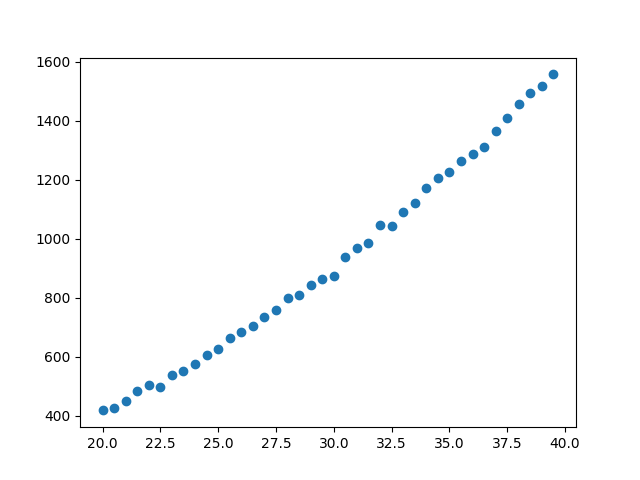
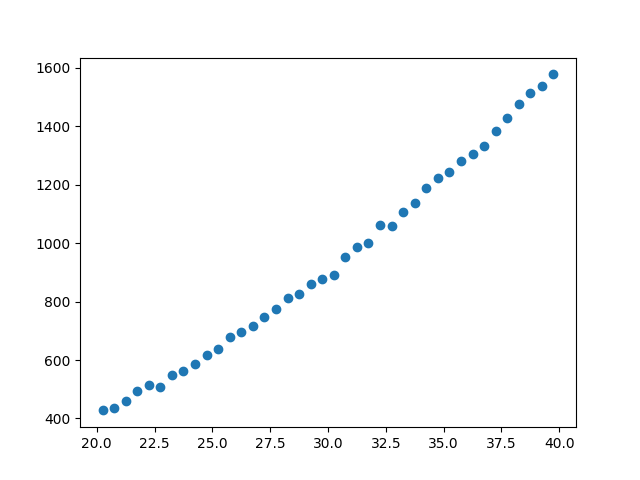
RTD: use 0.25/0.75 rather than 0.0/0.5 axis values
For @hamogu

diff --git a/docs/_examples/data/index.py b/docs/_examples/data/index.py
@@ -25,10 +25,12 @@ def savefig(name):
 
 
 np.random.seed(0)
-x = np.arange(20, 40, 0.5)
+x = np.arange(20.25, 40, 0.5)
 y = x**2 + np.random.normal(0, 10, size=x.size)
 d1 = data.Data1D('test', x, y)
 report("d1")
+report("d1.x")
+report("d1.y")
 
 plt.plot(d1.x, d1.y, 'o')
 savefig("data1d.png")
@@ -58,14 +60,14 @@ res1 = fit.fit()
 d1.notice()
 res2 = fit.fit()
 
-report('"Degrees of freedom: {} vs {}".format(res1.dof, res2.dof)')
+report('f"Degrees of freedom: {res1.dof} vs {res2.dof}"')
 
 d1.notice()
-report("d1.get_filter(format='%.1f')")
+report("d1.get_filter(format='%.2f')")
 d1.notice(25, 27)
-report("d1.get_filter(format='%.1f')")
+report("d1.get_filter(format='%.2f')")
 d1.notice(30, 35)
-report("d1.get_filter(format='%.1f')")
+report("d1.get_filter(format='%.2f')")
 
 d1.notice()
 report('d1.get_x()')

diff --git a/docs/data/index.rst b/docs/data/index.rst
@@ -66,7 +66,7 @@ Examples of unbinned data classes are
 :py:class:`~sherpa.data.Data1D` and :py:class:`~sherpa.data.Data2D`.
 
     >>> np.random.seed(0)
-    >>> x = np.arange(20, 40, 0.5)
+    >>> x = np.arange(20.25, 40, 0.5)
     >>> y = x**2 + np.random.normal(0, 10, size=x.size)
     >>> d1 = data.Data1D('test', x, y)
     >>> print(d1)
@@ -75,6 +75,20 @@ Examples of unbinned data classes are
     y         = Float64[40]
     staterror = None
     syserror  = None
+    >>> print(d1.x)
+    [20.25 20.75 21.25 21.75 22.25 22.75 23.25 23.75 24.25 24.75 25.25 25.75
+     26.25 26.75 27.25 27.75 28.25 28.75 29.25 29.75 30.25 30.75 31.25 31.75
+     32.25 32.75 33.25 33.75 34.25 34.75 35.25 35.75 36.25 36.75 37.25 37.75
+     38.25 38.75 39.25 39.75]
+    >>> print(d1.y)
+    [ 427.70302346  434.56407208  461.34987984  495.47143199  513.7380799
+      507.7897212   550.06338418  562.54892792  587.03031148  616.66848502
+      639.00293571  677.60523507  696.67287725  716.77925016  747.00113233
+      773.39924327  813.00329073  824.51091736  858.69317702  876.52154261
+      889.53260184  952.09868595  985.20686199 1000.6408498  1062.76004624
+     1058.01884325 1106.02008517 1137.1906615  1188.39029214 1222.2560877
+     1244.11197426 1281.8441252  1305.18464252 1330.75453532 1384.08337851
+     1426.62598969 1475.36540681 1513.58629849 1536.68923183 1577.03947249]
     >>> plt.plot(d.x, d.y, 'o')
 
 .. image:: ../_static/data/data1d.png
@@ -148,7 +162,7 @@ hides those values where the independent axis values are between
 
     >>> d1.ignore(21.2, 22.8)
     >>> d1.x[np.invert(d1.mask)]
-    array([21.5, 22. , 22.5])
+    array([21.25, 21.75, 22.25, 22.75])
 
 .. note::
    The meaning of the range selected by the `notice` and `ignore` calls
@@ -160,10 +174,10 @@ hides those values where the independent axis values are between
 
 The :py:meth:`~sherpa.data.Data1D.get_filter` method will report a
 string representation of the existing filter, so here showing that
-the bins between 21 and 23 have been ignored::
+the bins between 21.2 and 22.8 have been ignored::
 
     >>> print(d1.get_fiter())
-    20.0000:21.0000,23.0000:39.5000
+    20.2500:20.7500,23.2500:39.7500
 
 .. note::
    The filter does not record the requested changes - that is here
@@ -187,8 +201,8 @@ no arguments were given)::
     >>> d1.notice()
     >>> res2 = fit.fit()
 
-    >>> print("Degrees of freedom: {} vs {}".format(res1.dof, res2.dof))
-    Degrees of freedom: 35 vs 38
+    >>> print(f"Degrees of freedom: {res1.dof} vs {res2.dof}")
+    Degrees of freedom: 34 vs 38
 
 .. _filter_reset:
 
@@ -213,22 +227,22 @@ calls will add the new data. So with no filter we see the whole data
 range::
 
     >>> d1.notice()
-    >>> print(d1.get_fiter(format='%.1f'))
-    20.0:39.5
+    >>> print(d1.get_fiter(format='%.2f'))
+    20.25:39.75
 
 The first :py:meth:`~sherpa.data.Data.notice` call restricts to just
 this range::
 
     >>> d1.notice(25, 27)
     >>> print(d1.get_fiter(format='%.1f'))
-    25.0:27.0
+    25.25:26.75
 
 Subsequent :py:meth:`~sherpa.data.Data.notice` calls add to the selected
 range::
 
     >>> d1.notice(30, 35)
     >>> print(d1.get_fiter(format='%.1f'))
-    25.0:27.0,30.0:35.0
+    25.25:26.75,30.25:34.75
 
 The edges of a filter
 ---------------------
@@ -260,22 +274,23 @@ will be applied::
   >>> d1.notice()
   >>> d1.notice(21.1, 23.5)
   >>> d1.get_x()
-  [20.  20.5 21.  21.5 22.  22.5 23.  23.5 24.  24.5 25.  25.5 26.  26.5
-   27.  27.5 28.  28.5 29.  29.5 30.  30.5 31.  31.5 32.  32.5 33.  33.5
-   34.  34.5 35.  35.5 36.  36.5 37.  37.5 38.  38.5 39.  39.5]
+  [20.25 20.75 21.25 21.75 22.25 22.75 23.25 23.75 24.25 24.75 25.25 25.75
+   26.25 26.75 27.25 27.75 28.25 28.75 29.25 29.75 30.25 30.75 31.25 31.75
+   32.25 32.75 33.25 33.75 34.25 34.75 35.25 35.75 36.25 36.75 37.25 37.75
+   38.25 38.75 39.25 39.75]
   >>> d1.get_y()
-  [ 417.64052346  424.25157208  450.78737984  484.65893199  502.6755799
-    496.4772212   538.50088418  550.73642792  574.96781148  604.35598502
-    626.44043571  664.79273507  683.61037725  703.46675016  733.43863233
-    759.58674327  798.94079073  810.19841736  844.13067702  861.70904261
-    874.47010184  936.78618595  969.64436199  984.8283498  1046.69754624
-   1041.70634325 1089.45758517 1120.3781615  1171.32779214 1204.9435877
-   1226.54947426 1264.0316252  1287.12214252 1312.44203532 1365.52087851
-   1407.81348969 1456.30290681 1494.27379849 1517.12673183 1557.22697249]
+  [ 427.70302346  434.56407208  461.34987984  495.47143199  513.7380799
+    507.7897212   550.06338418  562.54892792  587.03031148  616.66848502
+    639.00293571  677.60523507  696.67287725  716.77925016  747.00113233
+    773.39924327  813.00329073  824.51091736  858.69317702  876.52154261
+    889.53260184  952.09868595  985.20686199 1000.6408498  1062.76004624
+   1058.01884325 1106.02008517 1137.1906615  1188.39029214 1222.2560877
+   1244.11197426 1281.8441252  1305.18464252 1330.75453532 1384.08337851
+   1426.62598969 1475.36540681 1513.58629849 1536.68923183 1577.03947249]
   >>> d1.get_x(filter=True)
-  [21.5 22.  22.5 23.  23.5]
+  [21.25 21.75 22.25 22.75 23.25]
   >>> d1.get_y(filter=True)
-  [484.65893199 502.6755799  496.4772212  538.50088418 550.73642792]
+  [461.34987984 495.47143199 513.7380799  507.7897212  550.06338418]
 
 Enhanced filtering
 ------------------
